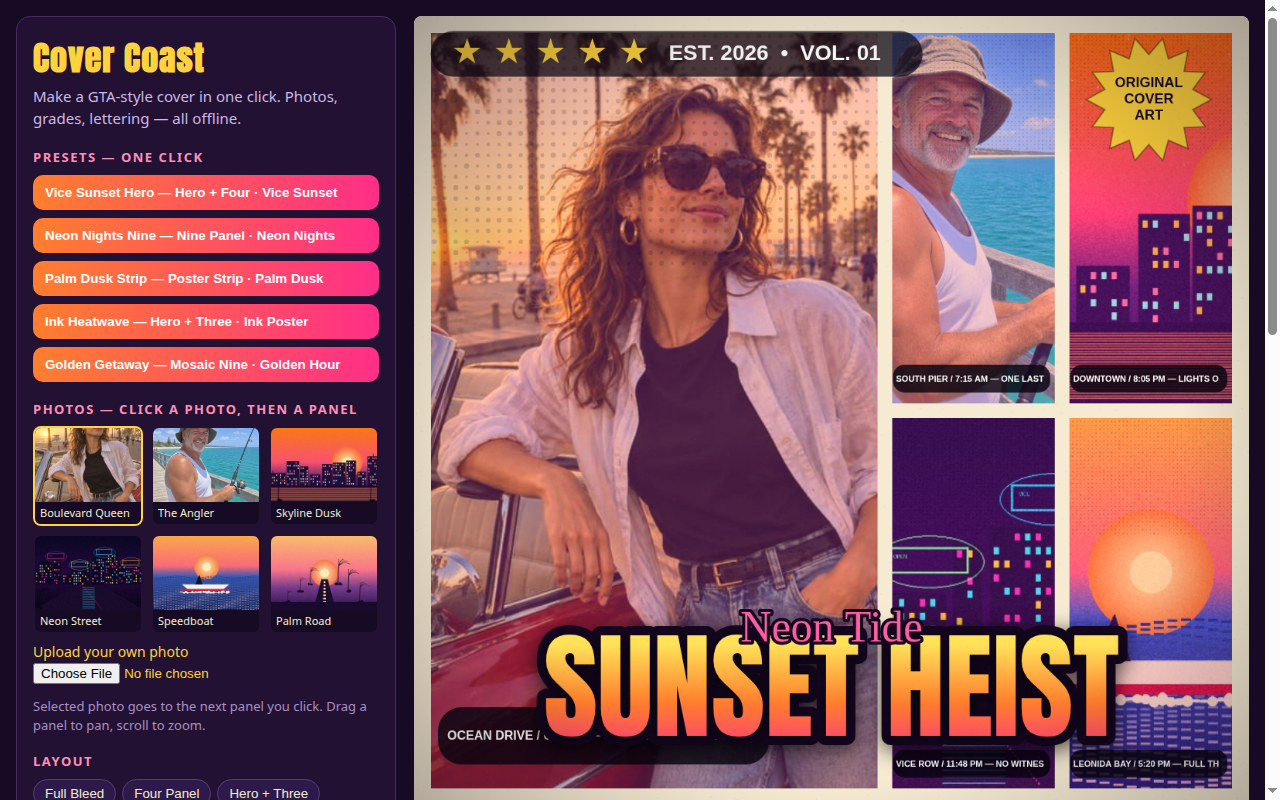
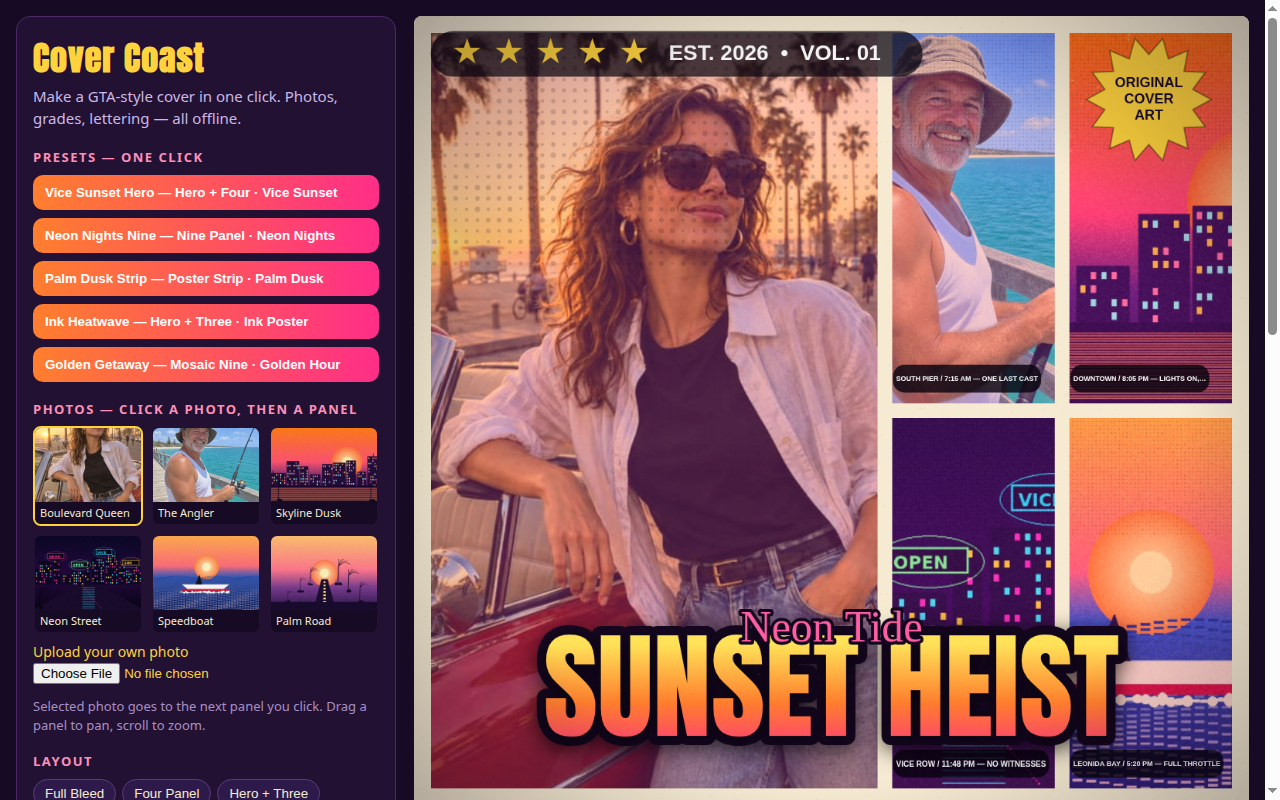
final: fresh screenshots (all within scorer caps) + neon sample with readable signs

diff --git a/tools/gen-samples.py b/tools/gen-samples.py
@@ -102,9 +102,14 @@ d = ImageDraw.Draw(img)
 skyline(d, 470, (14, 8, 34), [(255, 60, 180), (60, 230, 255), (255, 210, 80)], rnd, 22)
 for sx, sy, col, txt in [(150, 180, (255, 45, 150), "NEON"), (620, 140, (40, 220, 255), "VICE"),
                          (880, 240, (255, 200, 60), "24H"), (380, 260, (120, 255, 170), "OPEN")]:
-    d.rectangle([sx - 8, sy - 8, sx + 150, sy + 42], outline=col, width=4)
+    d.rectangle([sx - 8, sy - 8, sx + 150, sy + 42], fill=(10, 6, 26), outline=col, width=4)
     d.ellipse([sx - 30, sy - 30, sx + 180, sy + 70], outline=col, width=2)
-    d.text((sx + 6, sy + 4), txt, fill=col)
+    try:
+        from PIL import ImageFont
+        fnt = ImageFont.truetype("/usr/share/fonts/truetype/dejavu/DejaVuSans-Bold.ttf", 34)
+    except Exception:
+        fnt = None
+    d.text((sx + 6, sy + 2), txt, fill=col, font=fnt)
 d.polygon([(0, 720), (430, 470), (650, 470), (1080, 720)], fill=(26, 12, 44))
 for i in range(40):
     x = 470 + i * 5
